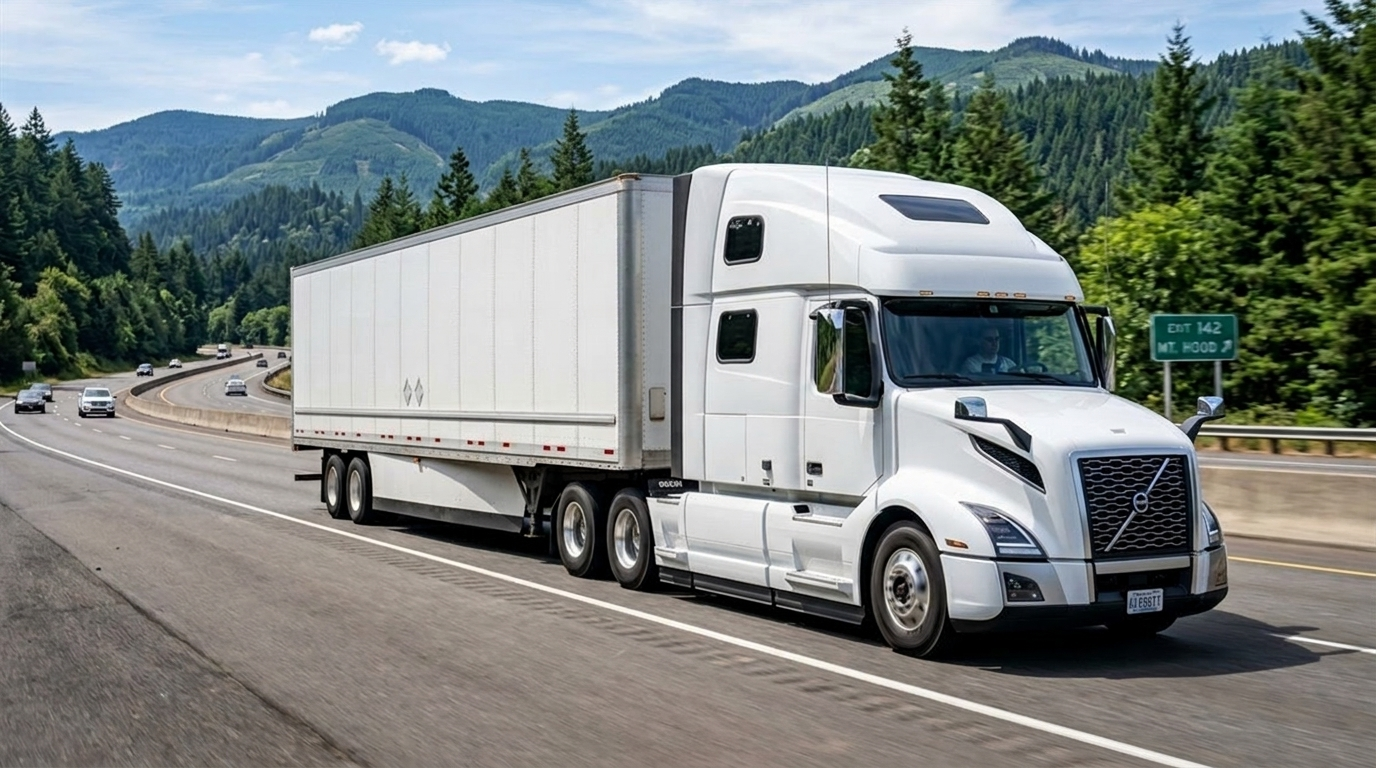
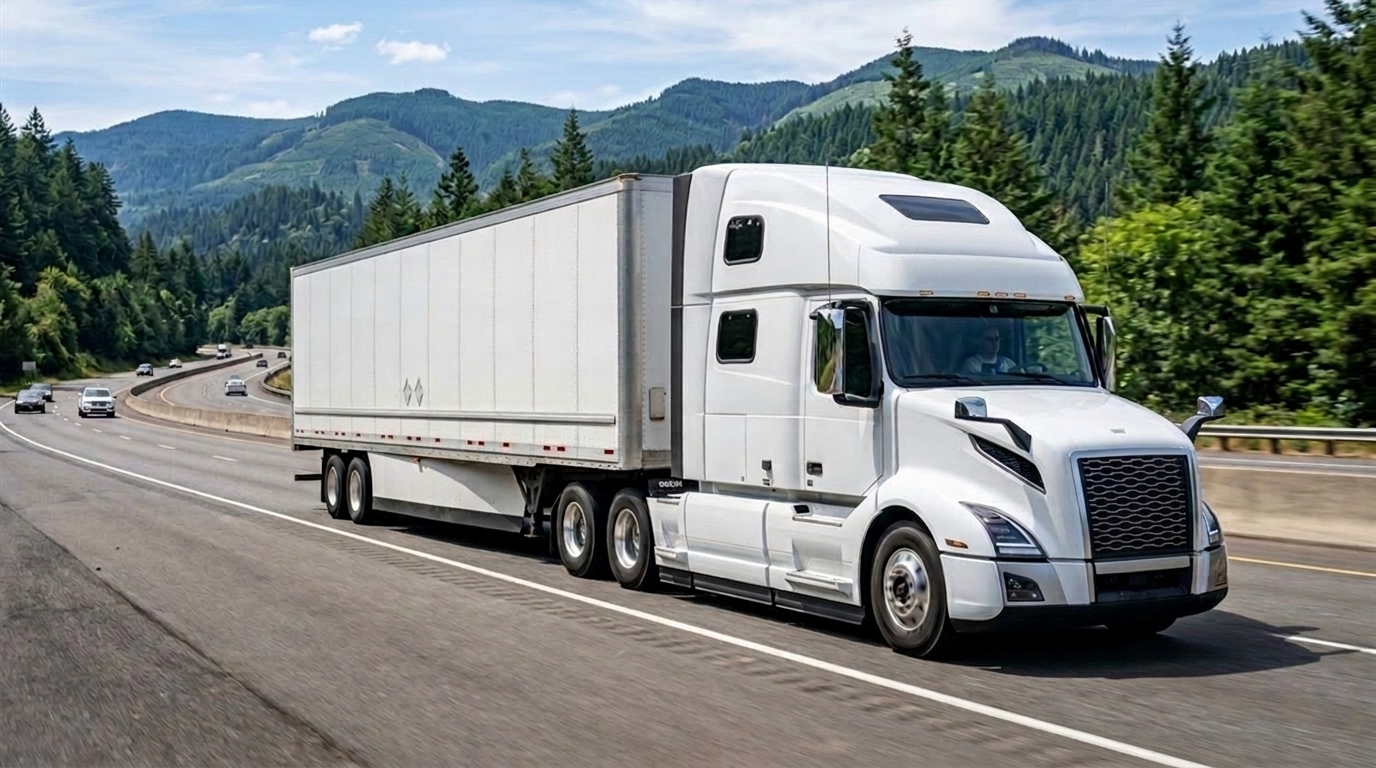
fix(images): complete total debranding and genericization of all fleet and facility assets

Changed region(s): [[0.8125, 0.4062, 0.9062, 0.5625], [0.7812, 0.5938, 0.875, 0.7188], [0.8125, 0.75, 0.8438, 0.8125]]

diff --git a/index.html b/index.html
@@ -201,7 +201,7 @@
               loop
               playsinline
               preload="auto"
-              poster="./img/terminal-logistica.jpg"
+              poster="./img/terminal-logistica.jpg?v=2"
               class="hero-video-bg"
             >
               <source src="./video/highway-truck-hd.mp4" type="video/mp4" />
@@ -248,7 +248,7 @@
               <div class="about-visual reveal">
                 <div class="about-image-frame">
                   <img
-                    src="./img/terminal-logistica.jpg"
+                    src="./img/terminal-logistica.jpg?v=2"
                     alt="Centro de distribución, patio de maniobras y operaciones logísticas regionales de Grupo Pronoeo"
                     width="1200"
                     height="675"
@@ -454,7 +454,7 @@
                 <div class="fleet-image">
                   <span class="fleet-badge">TRACCIÓN PESADA REGIONAL</span>
                   <span class="fleet-code-badge">CABEZALES</span>
-                  <img src="./img/cabezal-6x4.jpg" alt="Cabezales y tractocamiones de alta potencia para arrastre regional" width="1200" height="675" loading="lazy" decoding="async" />
+                  <img src="./img/cabezal-6x4.jpg?v=2" alt="Cabezales y tractocamiones de alta potencia para arrastre regional" width="1200" height="675" loading="lazy" decoding="async" />
                 </div>
                 <div class="fleet-copy">
                   <span class="fleet-category">Fuerza Motriz Propia</span>
@@ -497,7 +497,7 @@
                 <div class="fleet-image">
                   <span class="fleet-badge">DISTRIBUCIÓN COMERCIAL & REGIONAL</span>
                   <span class="fleet-code-badge">RÍGIDOS</span>
-                  <img src="./img/plataforma-2ejes.jpg" alt="Camiones rígidos de 2 y 3 ejes para distribución y carga general" width="1200" height="675" loading="lazy" decoding="async" />
+                  <img src="./img/plataforma-2ejes.jpg?v=2" alt="Camiones rígidos de 2 y 3 ejes para distribución y carga general" width="1200" height="675" loading="lazy" decoding="async" />
                 </div>
                 <div class="fleet-copy">
                   <span class="fleet-category">Carga General & Distribución</span>
@@ -540,7 +540,7 @@
                 <div class="fleet-image">
                   <span class="fleet-badge">CARGA SECA PROTEGIDA</span>
                   <span class="fleet-code-badge">FURGONES</span>
-                  <img src="./img/furgon-53.jpg" alt="Camiones furgón cerrado para carga seca protegida contra intemperie" width="1200" height="675" loading="lazy" decoding="async" />
+                  <img src="./img/furgon-53.jpg?v=2" alt="Camiones furgón cerrado para carga seca protegida contra intemperie" width="1200" height="675" loading="lazy" decoding="async" />
                 </div>
                 <div class="fleet-copy">
                   <span class="fleet-category">Carga Seca Protegida</span>
@@ -583,7 +583,7 @@
                 <div class="fleet-image">
                   <span class="fleet-badge">CARGA GENERAL & MAQUINARIA</span>
                   <span class="fleet-code-badge">PLATAFORMA</span>
-                  <img src="./img/plataforma-3ejes.jpg" alt="Semirremolques plataforma de 3 ejes Titan para carga general, maquinaria y producto paletizado" width="1200" height="675" loading="lazy" decoding="async" />
+                  <img src="./img/plataforma-3ejes.jpg?v=2" alt="Semirremolques plataforma de 3 ejes Titan para carga general, maquinaria y producto paletizado" width="1200" height="675" loading="lazy" decoding="async" />
                 </div>
                 <div class="fleet-copy">
                   <span class="fleet-category">Carga General & Paletizada</span>
@@ -626,7 +626,7 @@
                 <div class="fleet-image">
                   <span class="fleet-badge">MAQUINARIA PESADA & SOBREDIMENSIÓN</span>
                   <span class="fleet-code-badge">LOW BOY</span>
-                  <img src="./img/cama-baja-lowboy.jpg" alt="Semirremolque low boy cama baja de 2 ejes Titan para maquinaria pesada y carga sobredimensionada" width="1200" height="675" loading="lazy" decoding="async" />
+                  <img src="./img/cama-baja-lowboy.jpg?v=2" alt="Semirremolque low boy cama baja de 2 ejes Titan para maquinaria pesada y carga sobredimensionada" width="1200" height="675" loading="lazy" decoding="async" />
                 </div>
                 <div class="fleet-copy">
                   <span class="fleet-category">Equipo Especializado & Sobredimensionado</span>
@@ -669,7 +669,7 @@
                 <div class="fleet-image">
                   <span class="fleet-badge">CARGA SECA & ALTO VOLUMEN</span>
                   <span class="fleet-code-badge">CAJA SECA</span>
-                  <img src="./img/furgon-48.jpg" alt="Semirremolques furgón de 2 ejes para transporte masivo de carga seca protegida" width="1200" height="675" loading="lazy" decoding="async" />
+                  <img src="./img/furgon-48.jpg?v=2" alt="Semirremolques furgón de 2 ejes para transporte masivo de carga seca protegida" width="1200" height="675" loading="lazy" decoding="async" />
                 </div>
                 <div class="fleet-copy">
                   <span class="fleet-category">Transporte Masivo en Carretera</span>

diff --git a/sw.js b/sw.js
@@ -3,7 +3,7 @@
  * Habilita capacidades de Progressive Web App (PWA), instalación móvil y carga ultra rápida en carretera.
  */
 
-const CACHE_NAME = 'pronoeo-cache-v1.7';
+const CACHE_NAME = 'pronoeo-cache-v1.8';
 
 const PRECACHE_ASSETS = [
   './',
